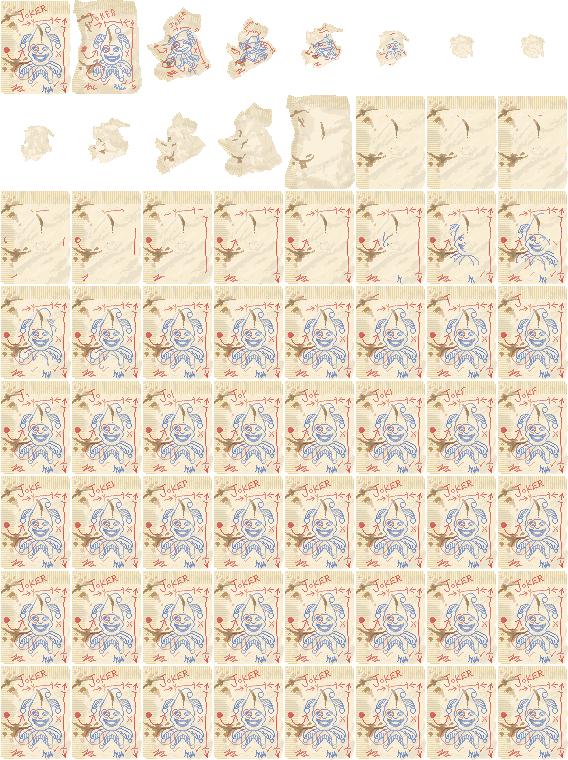
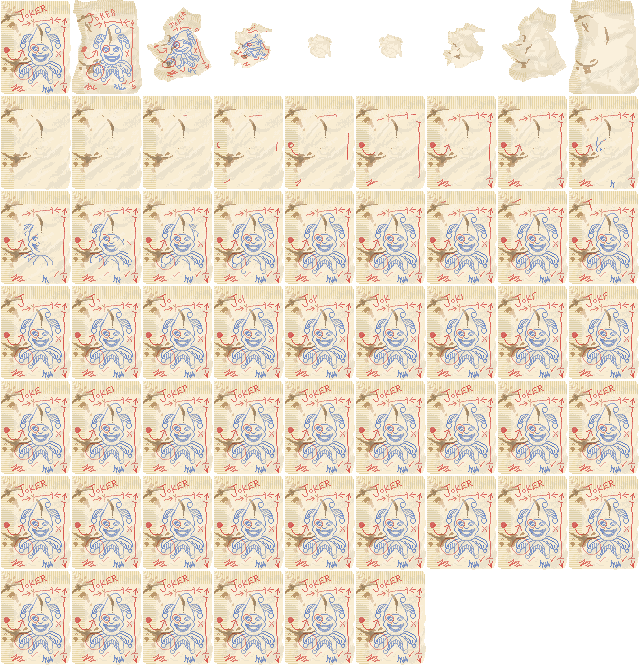
RNG bugfix, brainstorm texture update

diff --git a/README.md b/README.md
@@ -4,7 +4,6 @@ Aura is a mod that seeks to add animations to every Joker in Balatro.
 **10/150** Jokers completed
 
 Known Issues:
-- Joker RNG is different when using Aura
-- Rare Jokers don't appear to generate properly when using Steamodded 0.9.8
+- Jokers don't naturally generate properly when using Steamodded 0.9.8
 
 Artists and progress for each Joker are detailed [here](https://docs.google.com/spreadsheets/d/1MGBtcHmb2hb9bE-ueEiKwMdn3c27fzgU46PYq8b6UhM/edit#gid=0).
